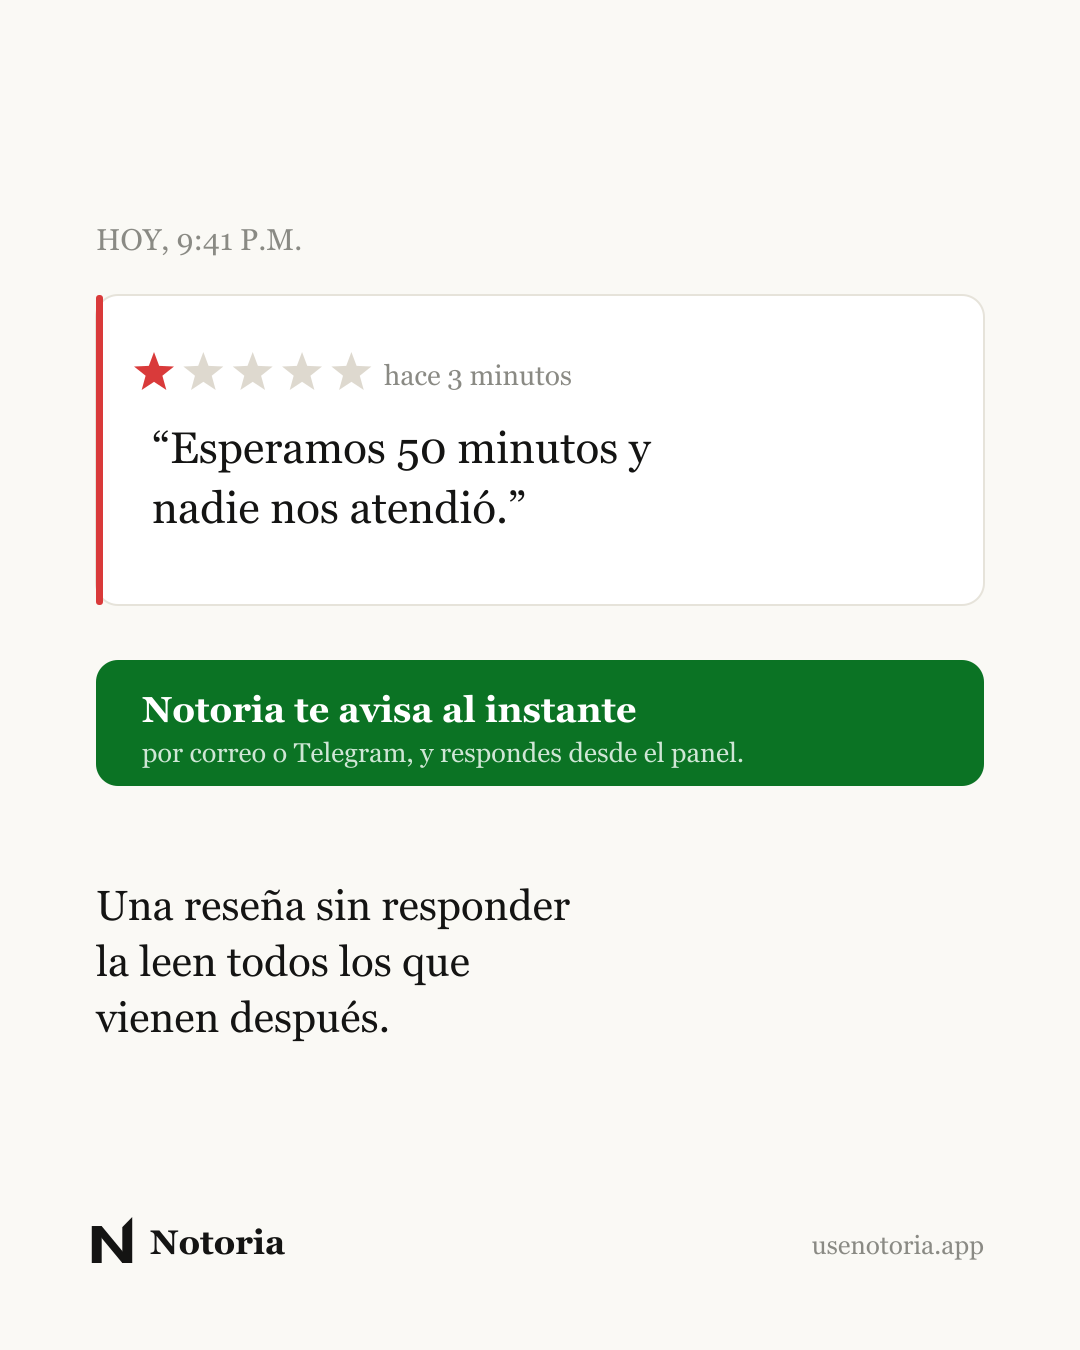
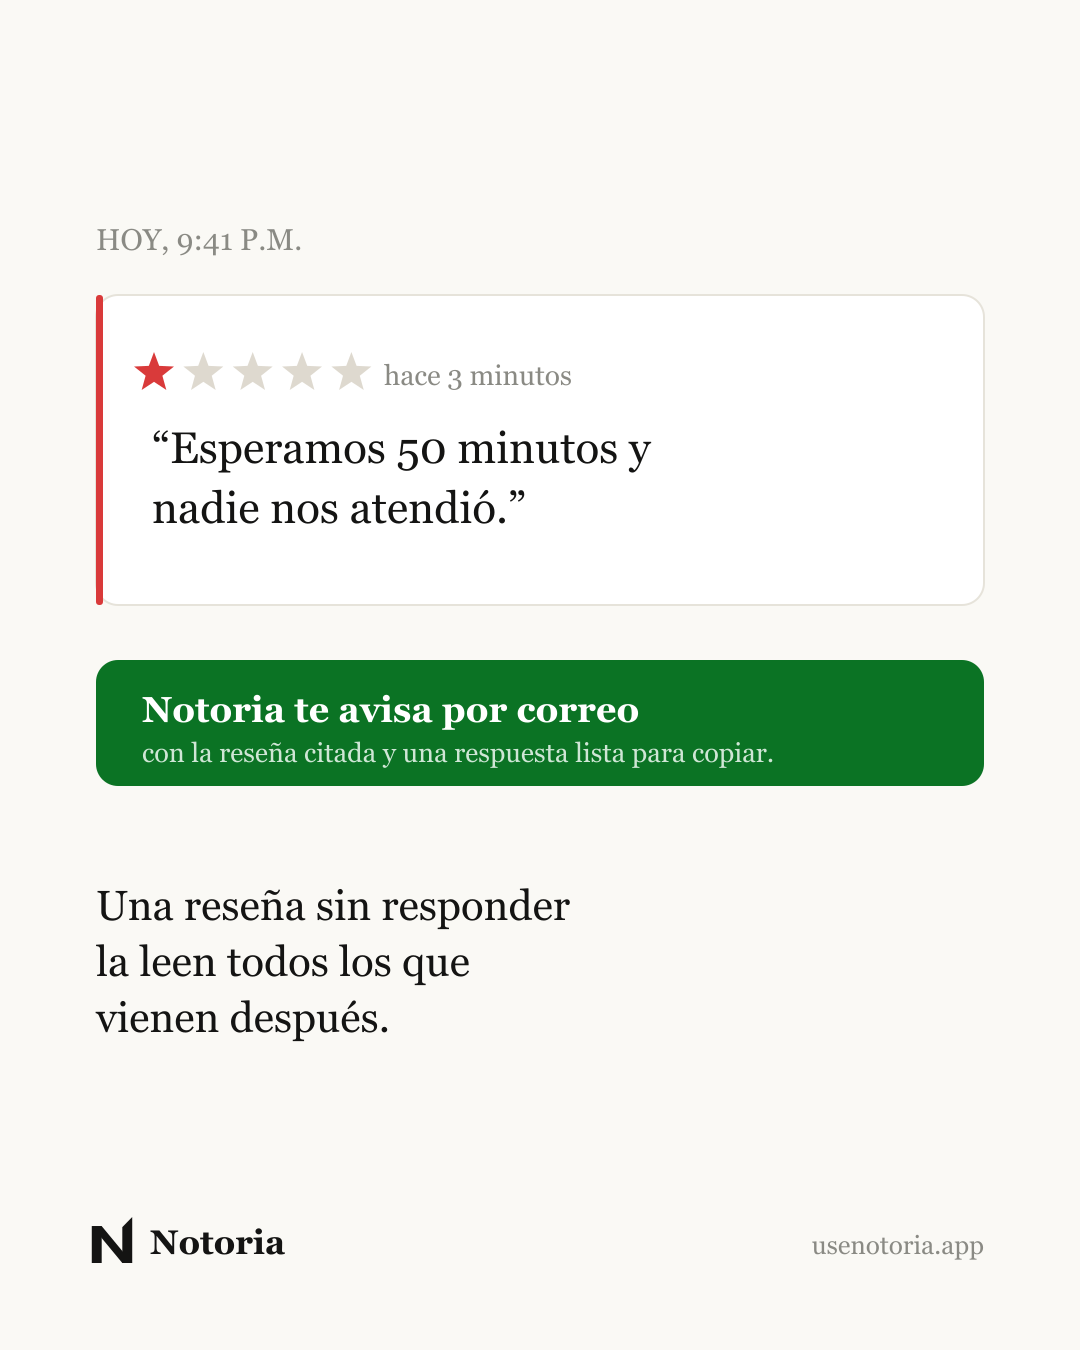
Las piezas de redes prometian tres cosas que el producto no hace
marca/generar-social.js llevaba meses publicado en redes con tres frases que
la seccion 15 ya no permite. La tercera es la cara:

  "por correo o Telegram"     Telegram se elimino el 2026-08-22. Canal unico.
  "Resenas falsas y bots"     El detector marca COMPORTAMIENTO ANOMALO y nunca
                              dictamina que una resena sea falsa. Y la
                              deteccion por perfil del autor esta declarada
                              como que no se hace.
  "te avisa al instante       Google tiene BLOQUEADAS las GBP APIs: la
   y respondes desde          respuesta se redacta en Notoria y se pega a mano.
   el panel"                  Y el aviso sale a la cadencia del plan, no al
                              instante.

Ahora dicen lo que hace: "te avisa por correo, con la resena citada y una
respuesta lista para copiar" y "Campanas coordinadas de resenas". Los tres
PNG regenerados y mirados.

Y es el PNG otra vez, por tercera vez el mismo dia: el texto estaba en el
fuente, pero nadie barre marca/ buscando promesas porque ese archivo genera
imagenes.

LA TARJETA DE GOOGLE: la hipotesis quedo corroborada, y no por deduccion.
El dueno conto que YouTube Premium no se le cobro esas mismas horas, con el
mismo mensaje. En el centro de pagos: Google AI Plus, Google Cloud y YouTube
Premium cuelgan de la MISMA "Visa Debito Clasica Compras ..2224". La marca
del rechazo va sobre el INSTRUMENTO, no sobre la cuenta, y por eso Cloud
avisa debiendo PEN 0.00.
[…]

Changed region(s): [[0.3972, 0.4978, 0.7028, 0.5911], [0.1528, 0.5289, 0.3972, 0.5911]]

diff --git a/marca/generar-social.js b/marca/generar-social.js
@@ -104,6 +104,18 @@ const piezaPromesa = lienzo(OSCURO, `
 `);
 
 // ── Pieza 2: la reseña que duele ──────────────────────────
+// 🔴 La franja verde decía «Notoria te avisa AL INSTANTE / por correo o TELEGRAM, y
+// RESPONDES DESDE EL PANEL» — tres cosas falsas en dos renglones, corregidas el
+// 2026-09-22:
+//   · Telegram se eliminó del producto el 2026-08-22. El canal es el correo, único.
+//   · «Al instante» no: el aviso sale cuando el escaneo encuentra la reseña, y esa
+//     cadencia va por plan (2 h a 72 h). Prometer inmediatez es la clase de frase que
+//     el cliente comprueba el primer día.
+//   · «Respondes desde el panel» es lo más caro: Google tiene bloqueadas las GBP APIs
+//     (§6), así que la respuesta se REDACTA en Notoria y se pega en el perfil a mano.
+// Lo que sí hace, y es lo que dice ahora: el correo cita la reseña y trae la respuesta
+// lista para copiar (30 plantillas + IA).
+//
 // Enseña el problema en vez de contarlo. La reseña es genérica por dos motivos:
 // no se nombra ningún negocio real —inventarle una queja a un local existente
 // sería difamarlo— y la queja no es de un rubro concreto. Decía "la comida llegó
@@ -120,8 +132,8 @@ const piezaResena = lienzo(CREMA, `
   <text x="${MARGEN + 56}" y="523" font-family="${SERIF}" font-size="44" fill="${OSCURO}">nadie nos atendió.”</text>
 
   <rect x="${MARGEN}" y="660" width="${ANCHO_UTIL}" height="126" rx="22" fill="${VERDE}"/>
-  <text x="${MARGEN + 46}" y="722" font-family="${SERIF}" font-size="36" font-weight="bold" fill="#ffffff">Notoria te avisa al instante</text>
-  <text x="${MARGEN + 46}" y="762" font-family="${SERIF}" font-size="27" fill="#cfe6d5">por correo o Telegram, y respondes desde el panel.</text>
+  <text x="${MARGEN + 46}" y="722" font-family="${SERIF}" font-size="36" font-weight="bold" fill="#ffffff">Notoria te avisa por correo</text>
+  <text x="${MARGEN + 46}" y="762" font-family="${SERIF}" font-size="27" fill="#cfe6d5">con la reseña citada y una respuesta lista para copiar.</text>
 
   <text x="${MARGEN}" y="920" font-family="${SERIF}" font-size="42" fill="${OSCURO}">Una reseña sin responder</text>
   <text x="${MARGEN}" y="976" font-family="${SERIF}" font-size="42" fill="${OSCURO}">la leen todos los que</text>
@@ -132,10 +144,18 @@ const piezaResena = lienzo(CREMA, `
 // ── Pieza 3: lo que vigila ────────────────────────────────
 // Lista corta de capacidades reales. Nada de cifras inventadas: todo lo que dice
 // es algo que el producto hace hoy.
+//
+// 🔴 «Reseñas falsas y ataques de bots» estuvo acá hasta el 2026-09-22 y NO se puede
+// decir. El detector marca COMPORTAMIENTO ANÓMALO —texto repetido entre cuentas
+// distintas, 1★ sin comentario, palabras críticas, ráfagas por volumen— y nunca
+// dictamina que una reseña sea falsa; eso lo determinan Google o la autoridad. Y la
+// detección por el PERFIL del autor está declarada como que **no se hace** (§15): las
+// cinco fuentes escriben `autorResenasTotal: null` porque Places no da ese dato.
+// Es la misma regla que gobierna el expediente y el pie de los carteles.
 const filas = [
   'Reseñas nuevas en Google',
   'Comentarios en tus publicaciones',
-  'Reseñas falsas y ataques de bots',
+  'Campañas coordinadas de reseñas',
   'Caídas de tu calificación',
 ];
 const piezaVigila = lienzo(OSCURO, `

diff --git a/CLAUDE.md b/CLAUDE.md
@@ -3410,10 +3410,36 @@ dice no cuadra del todo con lo que enseña la consola:
 | **Producción** | **VIVA**: último snapshot hace 1,5 h y **24/día** parejos toda la semana |
 
 ⚠ **O sea que no hay deuda y la tarjeta no caducó**, que son las dos causas que el correo
-propone. La hipótesis que queda —y se marca como hipótesis, no como hallazgo— es que Google
-no pudo **validar** el instrumento: la ••••2224 es una Visa **DÉBITO** (la misma de las
-pruebas de Culqi de agosto, §19 B), y Google Cloud exige crédito en muchos países. Un débito
-peruano además suele rechazar la autorización de prueba.
+propone.
+
+### 🔑 Y el 2026-09-22 la causa dejó de ser hipótesis: es la TARJETA, y la delató YouTube
+
+El dueño contó que por esas mismas horas **YouTube Premium no se le llegó a cobrar**, con un
+mensaje que también pedía validar la forma de pago. Comprobado en el centro de pagos, y esto
+explica todo lo que no cuadraba:
+
+| Servicio | Forma de pago |
+|---|---|
+| Google AI Plus (400 GB, Google One) | **Visa Débito Clásica Compras ••••2224** |
+| **Google Cloud `019CC3-FF537C-DBA7DD`** | **la misma** |
+| YouTube Premium | **la misma** |
+
+🔴 **Los tres cuelgan de la MISMA tarjeta, y la marca del rechazo va sobre el INSTRUMENTO, no
+sobre la cuenta que lo usa.** Por eso Cloud recibe un aviso de «datos de pago no válidos»
+debiendo **PEN 0.00**: no es que Cloud tenga un problema, es que la tarjeta falló un cobro real
+en otro servicio y Google la marca para todos a la vez. La propia ficha la llama «Visa
+**Débito** Clásica Compras», que es el dato que la hipótesis suponía.
+
+⚠ **CANCELAR YOUTUBE PREMIUM NO ARREGLA NADA**, y conviene decirlo porque es la reacción
+natural. La tarjeta sigue siendo la forma de pago de Cloud **y de Google AI Plus**, que es la
+siguiente que va a fallar. Lo que hay que arreglar es el medio de pago, no la suscripción.
+
+🔴 **Y pone fecha al riesgo de Cloud, que hasta ahora no la tenía.** La ficha dice: *«Se te
+cobrará automáticamente el 1.º día de cada mes. Si tu saldo alcanza el límite de pago de PEN
+200.00 antes de ese momento, se te cobrará de inmediato.»* Hoy el gasto es **S/ 0.00** porque
+el uso cabe en el crédito mensual de Maps — o sea que **el día que Places pase de ese crédito,
+Google intenta cobrar esa tarjeta y le va a pasar lo que le pasó a YouTube.** El margen no es
+indefinido: es el que queda hasta que el padrón crezca.
 
 🔴 **Y lo que el repaso destapó, que es lo que de verdad hay que arreglar: una suspensión
 sería MUDA.** El monitor de uptime comprueba `/health` y el landing, y los dos seguirían
@@ -3505,12 +3531,21 @@ vacía y ffmpeg **cae al tipo por defecto sin avisar**. Queda anotado en su §7 
 reemplazo exacto (`C\:/Windows/Fonts/georgia.ttf`, con los dos puntos escapados o el filtro
 no compila) y el `awk` que sustituye al `python3`.
 
-⚠ **Hallazgo suelto, sin tocar:** `marca/generar-social.js` tiene dos frases que §15 ya no
-permite — «por correo **o Telegram**» (eliminado el 2026-08-22) y «**Reseñas falsas** y
-ataques de bots» (el detector dice «comportamiento anómalo», nunca «reseña falsa», y la
-detección por perfil está declarada como que **no se hace**, §15). Son piezas publicadas en
-redes. No se tocaron por no salirse del encargo; **hay que corregirlas antes de volver a
-usarlas.**
+✅ **Las piezas de redes, CORREGIDAS el 2026-09-22** (`marca/generar-social.js`). Tenían
+**tres** frases que §15 ya no permite, no dos, y la tercera era la más cara:
+
+| Decía | Por qué no se puede |
+|---|---|
+| «por correo **o Telegram**» | Telegram se eliminó del producto el 2026-08-22. El canal es el correo, único |
+| «**Reseñas falsas** y ataques de bots» | El detector marca **comportamiento anómalo** —texto repetido entre cuentas, 1★ sin comentario, palabras críticas, ráfagas— y nunca dictamina que una reseña sea falsa. Y la detección por perfil del autor está declarada como que **no se hace** |
+| 🔴 «te avisa **al instante**… y **respondes desde el panel**» | Lo de responder es lo grave: Google tiene **bloqueadas las GBP APIs** (§6), así que la respuesta se redacta en Notoria y se pega a mano. Y el aviso sale cuando el escaneo la encuentra, a la cadencia del plan — no al instante |
+
+Ahora dicen lo que el producto hace: «Notoria te avisa por correo, con la reseña citada y una
+respuesta lista para copiar» y «Campañas coordinadas de reseñas». Los tres PNG regenerados.
+⚠ **Y la lección es la del PNG otra vez, por tercera vez el mismo día:** estas piezas están
+publicadas en redes desde hace meses y las frases no salían en ningún barrido, porque viven
+dentro de un archivo que **genera imágenes**. El texto estaba en el fuente, sí — pero nadie
+barre `marca/` buscando promesas.
 
 ### 🔴 2026-09-19 — LA ECONOMÍA DEL PLAN GRATUITO, medida por primera vez
 
@@ -3690,16 +3725,20 @@ importe», no «está roto ahora». Eso lo **baja** de urgencia y lo **abarata**
 
 > ### 📋 VIGENTES al 2026-09-22 — empezar por acá
 >
-> 🔴 **LO PRIMERO, Y NO ES DEL CÓDIGO: la cuenta de facturación de Google Cloud.**
-> Google avisó el 21/09 de que `019CC3-FF537C-DBA7DD` no tiene datos de pago válidos, y el
-> segundo correo nombra el proyecto de PRODUCCIÓN — el de Places API y el `GOOGLE_CLIENT_ID`.
-> No hay deuda (saldo PEN 0.00) y la tarjeta no está vencida, así que lo más probable es que
-> Google no pueda validar una Visa **DÉBITO**. **Lo arregla el dueño** (agregar una de crédito
-> o que el banco autorice los cobros de Google); el agente no introduce datos de pago. Detalle
-> y lo que se verificó, en 📌 2026-09-22.
-> ⚠ **Y si lo suspendieran no habría ninguna señal**: el monitor mira `/health` y el landing,
-> que seguirían en 200, y el scraper trata el fallo de Places como «no se pudo leer». Queda
-> propuesto —no hecho— que el monitor distinga «Places responde» de «Places rechaza».
+> 🔴 **LO PRIMERO, Y NO ES DEL CÓDIGO: la TARJETA de Google, que falla para todo.**
+> No es un problema de Cloud: **Google AI Plus, Google Cloud y YouTube Premium cuelgan de la
+> MISMA Visa DÉBITO ••••2224**, y el rechazo real que sufrió YouTube marca el instrumento para
+> los tres. Por eso Cloud avisa de «datos de pago no válidos» debiendo **PEN 0.00**.
+> ⚠ **Cancelar YouTube Premium no lo arregla** — la tarjeta sigue siendo la de Cloud y la de
+> Google AI Plus, que es la próxima en fallar. Hay que cambiar el medio de pago (una de crédito,
+> o que el banco autorice los cobros de Google). **Lo hace el dueño**: el agente no introduce
+> datos de pago.
+> 🔴 Y el reloj: Cloud cobra el **día 1 de cada mes**, o antes si el saldo llega al límite de
+> PEN 200. Hoy el gasto es S/ 0.00 porque cabe en el crédito de Maps, así que **el día que
+> Places lo pase, el cobro va a esa tarjeta y le pasará lo de YouTube.**
+> ⚠ **Y si suspendieran el proyecto no habría ninguna señal**: el monitor mira `/health` y el
+> landing, que seguirían en 200, y el scraper trata el fallo de Places como «no se pudo leer».
+> Queda propuesto —no hecho— que el monitor distinga «Places responde» de «Places rechaza».
 >
 > 🟡 **De `propuesta.md` (está en `Downloads/`, no en el repo) quedan DOS.** Ocho de las diez
 > están hechas: og-image, expediente en el correo, plantilla del chantaje y parte por WhatsApp el
@@ -3730,7 +3769,7 @@ importe», no «está roto ahora». Eso lo **baja** de urgencia y lo **abarata**
 > | Cuándo | Qué | Quién |
 > |---|---|---|
 > | 🔴 **ya** | **Tarjeta de Google Cloud** (arriba). Sin fecha de corte en el correo, pero Google no avisa dos veces | Dueño |
-> | 🔴 **venció el lun 21/09** | **Declaración de agosto** (RVIE con las 3 boletas en 0.00 → RCE → 621). ⚠ **El plazo YA PASÓ** y desde el código no se puede comprobar si se presentó: el estado vive en el portal de SUNAT, y el desplegable del SIRE lo dice al lado del mes (`AGO-Presentado`). **Confirmarlo es lo primero**; si no se presentó, la multa corre por día | Dueño |
+> | ✅ **presentada** | ~~Declaración de agosto~~ — **el dueño la presentó el 21/09**, en otra sesión. ⚠ La documentación de ese trámite todavía **no está pusheada**, así que `docs/obligaciones-tributarias-mensuales.md` va por detrás de la realidad hasta que suba: es exactamente el caso que §19 advierte —un pendiente cerrado en un solo sitio— pero al revés | Dueño |
 > | jue 01/10 | Sale solo el **primer resumen mensual**: comprobar que llega y que cuenta 30 días | Mirar |
 > | ✅ **verificado 22/09** | ~~La pausa empieza a aplicar~~ — **aplica**: 6 de 11 cuentas dormidas (3 `INACTIVA`, 3 `SIN_VERIFICAR`) y **4 negocios activos** fuera del barrido, exactamente lo que §8.9 predijo el 19/09. **Ninguna cuenta de pago tocada**, que es la guarda funcionando. ⚠ La primera sonda dijo «0 pausadas» porque llamaba a `dormancia.estado`, **que no existe** — daba verde sin preguntar nada. La buena usa `motivoDormida` y lleva sus dos controles: una gratuita inventada con 365 días sin entrar sale `INACTIVA`, y una NEGOCIO igual de inactiva no se duerme | — |
 > | ✅ **cerrado 22/09** | ~~Las 2 cuentas gratuitas que se pausan sin aviso previo~~ — **el dueño confirmó que `britneyfarfan05@` y `giorrnellprincipe@` son SUYAS.** No se les manda nada y **no vuelve a proponerse**. ⚠ Y corrige la lectura de §19: de las 4 cuentas gratuitas con negocio activo que el análisis del 19/09 llamó «zombis», **2 son del propio dueño**, así que el padrón real de gratuitos es la mitad de lo que parecía | — |
